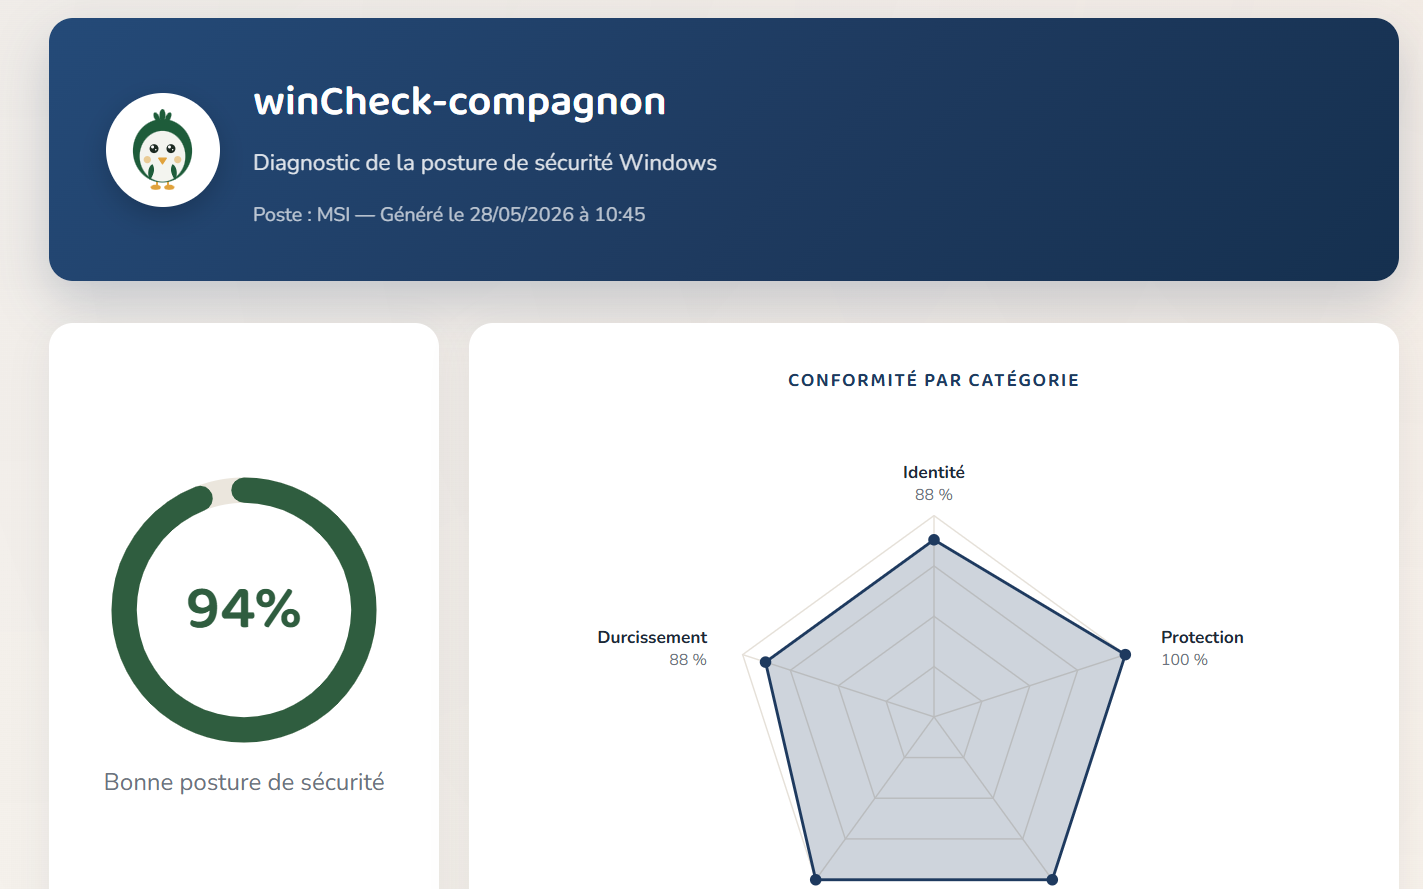
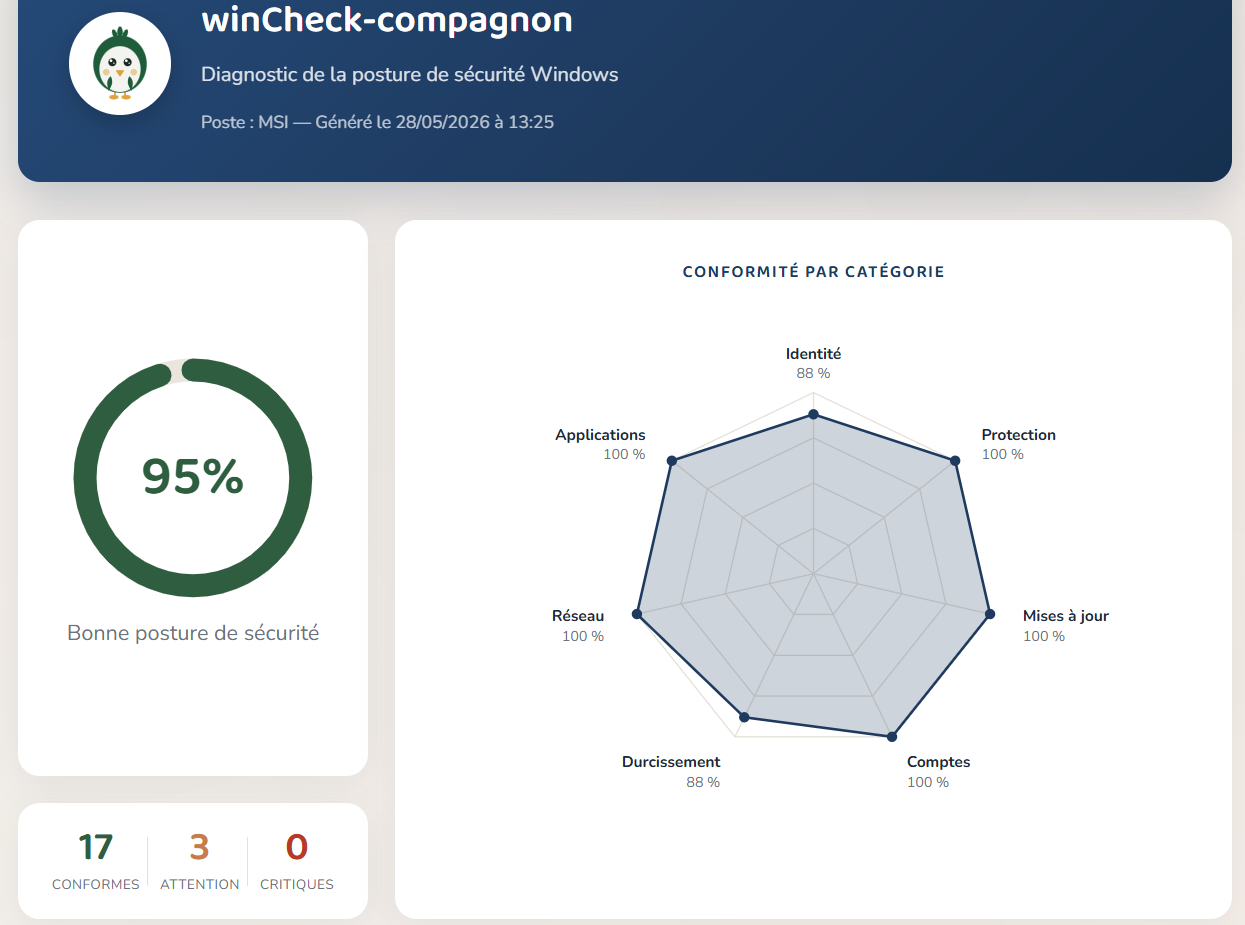
Version 1.1 — Réseau, surveillance et conformité applicative
- Nouvelle catégorie Réseau : Bureau à distance (RDP) et partages réseau
- Nouvelle catégorie Surveillance : ports en écoute, connexions actives, processus
- Nouvelle catégorie Applications interdites (liste noire par catégorie)
- Barre de progression pendant l'analyse
- Sommaire de navigation cliquable dans le rapport

diff --git a/rapport.css b/rapport.css
@@ -320,3 +320,54 @@ body {
     border-radius: 2px;
     flex-shrink: 0;
 }
+/* ===== SOMMAIRE DE NAVIGATION ===== */
+html { scroll-behavior: smooth; }
+.categorie { scroll-margin-top: 24px; }
+
+.sommaire {
+    background: #FFFFFF;
+    border-radius: 16px;
+    padding: 22px 26px;
+    margin-bottom: 28px;
+    box-shadow: 0 6px 26px rgba(31, 41, 55, 0.07);
+}
+.sommaire h2 {
+    font-family: 'Baloo 2', 'Segoe UI', sans-serif;
+    font-size: 18px;
+    color: #1E3A5F;
+    margin: 0 0 14px;
+}
+.sommaire-liste {
+    display: grid;
+    grid-template-columns: repeat(auto-fit, minmax(220px, 1fr));
+    gap: 10px;
+}
+.sommaire-item {
+    display: flex;
+    align-items: center;
+    justify-content: space-between;
+    gap: 12px;
+    padding: 10px 14px;
+    border-radius: 10px;
+    background: #F7F5F0;
+    color: #1F2937;
+    text-decoration: none;
+    font-weight: 600;
+    font-size: 14px;
+    transition: all 0.15s ease;
+}
+.sommaire-item:hover {
+    background: #EFEBE3;
+    transform: translateY(-1px);
+    box-shadow: 0 3px 10px rgba(31, 41, 55, 0.08);
+}
+.sommaire-nom { white-space: nowrap; overflow: hidden; text-overflow: ellipsis; }
+.sommaire-score {
+    font-family: 'Baloo 2', 'Segoe UI', sans-serif;
+    font-weight: 700;
+    flex-shrink: 0;
+}
+.som-bon    { color: #2F5D3F; }
+.som-moyen  { color: #C97B4A; }
+.som-faible { color: #B83A26; }
+.som-info   { color: #6B7280; }

diff --git a/README.md b/README.md
@@ -8,14 +8,19 @@ winCheck-compagnon est un script PowerShell qui vérifie une vingtaine de points
 
 ## Ce qu'il vérifie
 
-winCheck-compagnon passe en revue six familles de contrôles :
+winCheck-compagnon passe en revue plusieurs familles de contrôles :
 
 - **Identité du poste** — Secure Boot, chiffrement BitLocker, contrôle de compte d'utilisateur (UAC), puce TPM
 - **Protection** — antivirus temps réel, pare-feu, âge des signatures, protection anti-falsification, SmartScreen, protection contre les applications indésirables
 - **Mises à jour** — ancienneté de la dernière mise à jour Windows installée
 - **Comptes** — nombre d'administrateurs locaux, état du compte Invité
 - **Durcissement** — protocole SMBv1, LLMNR, stockage des mots de passe WDigest
+- **Réseau** — Bureau à distance (RDP), partages réseau exposés
+- **Surveillance** — ports en écoute, connexions actives, processus s'exécutant depuis des emplacements inhabituels (à titre informatif)
+- **Applications interdites** — détection des logiciels proscrits sur un poste professionnel : accès distant non maîtrisé, P2P/torrent, jeux, minage, stockage cloud personnel, messageries non autorisées, VPN de contournement, cracks
 - **Persistance** — programmes lancés au démarrage et tâches planifiées (à titre informatif)
+
+Le rapport propose en plus un **sommaire de navigation** pour parcourir facilement toutes les sections.
 
 Chaque point est expliqué : ce qui est vérifié, le risque associé, et la marche à suivre pour corriger.
 
